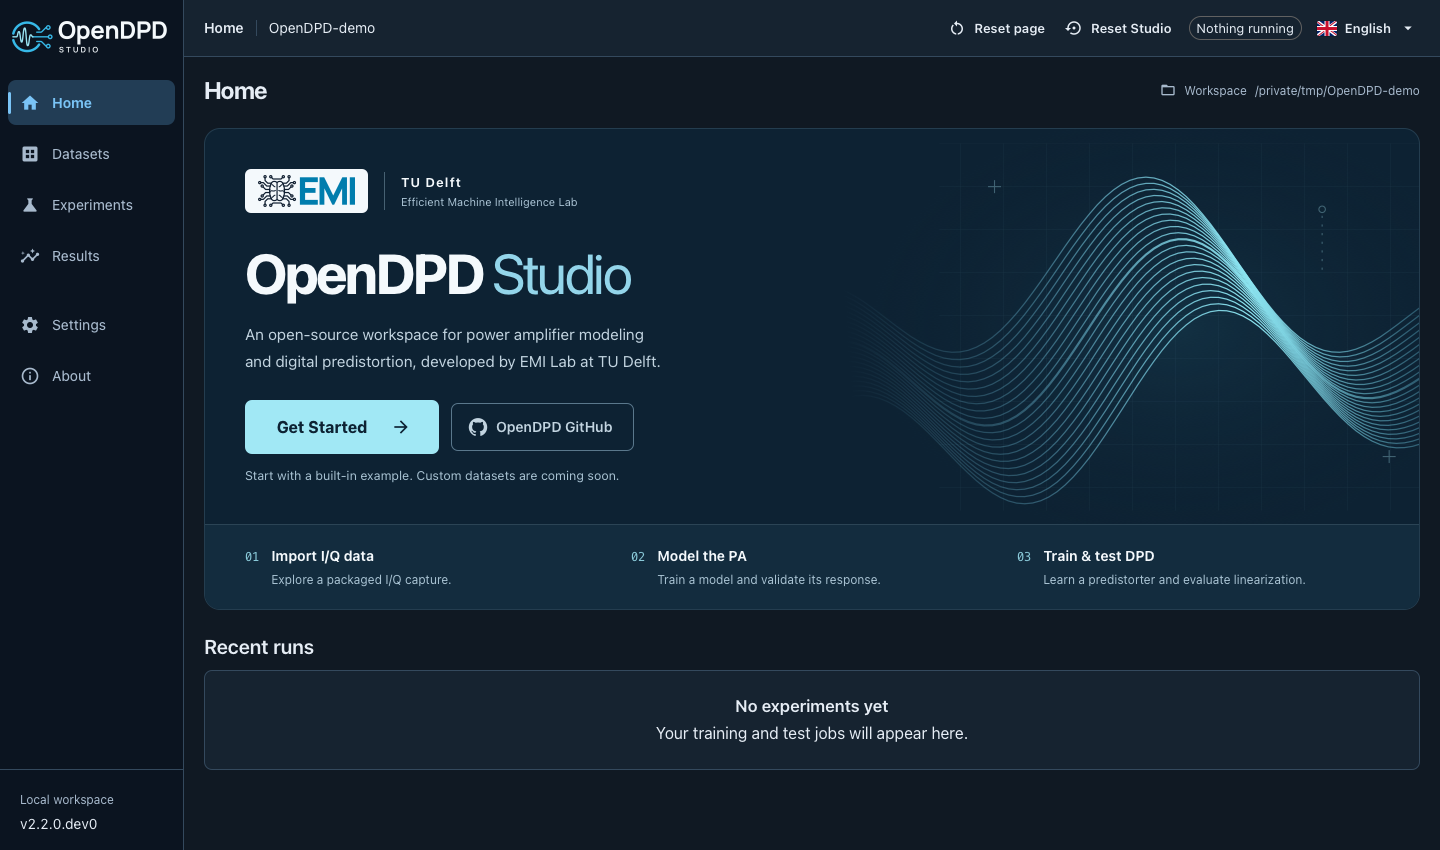
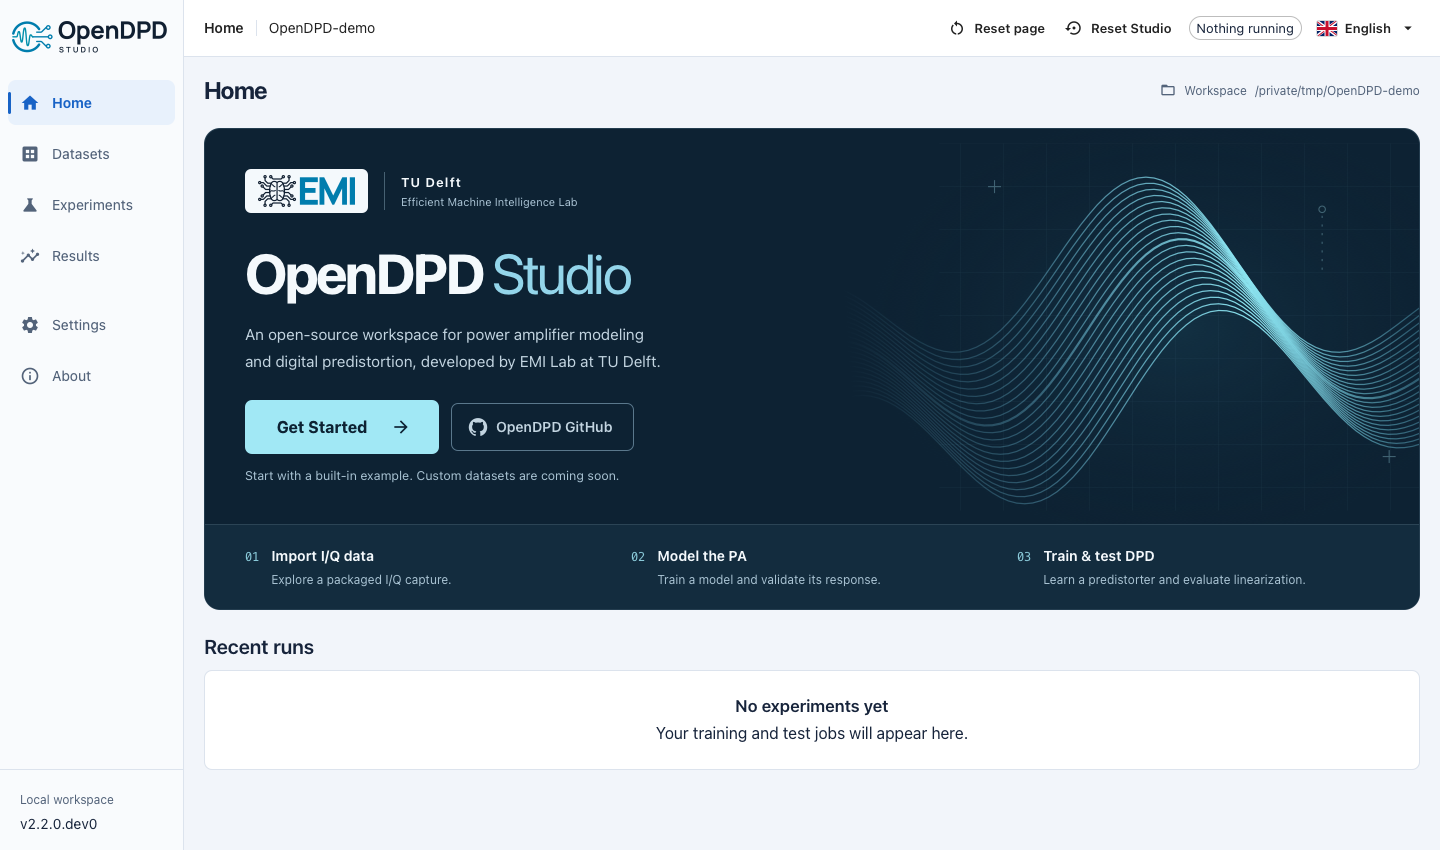
docs: use a light-theme Studio homepage screenshot

diff --git a/docs/documentation.md b/docs/documentation.md
@@ -51,4 +51,4 @@ The existing **Docs** workflow builds PRs and publishes the site from `main`. No
 
 ## Refresh the Studio screenshot
 
-Use the current app with a separate clean workspace, English selected and no private paths, captures or user run names visible. Capture the real Home page after it has loaded, with **Get Started** visible, and replace `pics/studio-home.png`. Keep browser diagnostics and session files out of Git. The README and site will both pick up the same image.
+Use the current app with a separate clean workspace, English selected, the light theme active and no private paths, captures or user run names visible. Capture the real Home page after it has loaded, with **Get Started** visible, and replace `pics/studio-home.png`. Keep browser diagnostics and session files out of Git. The README and site will both pick up the same image.

diff --git a/README.md b/README.md
@@ -1,5 +1,5 @@
 <!-- --8<-- [start:hero] -->
-![OpenDPD Studio home: a guided workspace for PA modeling and digital predistortion](pics/studio-home.png)
+![OpenDPD Studio home in light mode: a guided workspace for PA modeling and digital predistortion](pics/studio-home.png)
 <!-- --8<-- [end:hero] -->
 
 # OpenDPD
